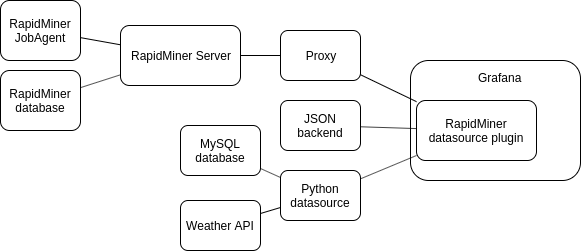
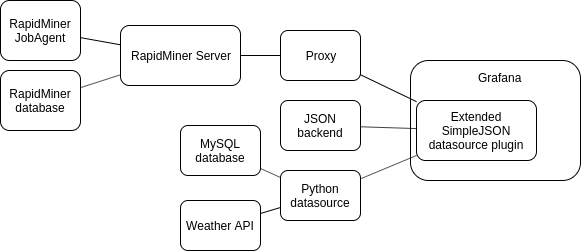
First version of design part, need further details

Changed region(s): [[0.7126, 0.4462, 0.8985, 0.6135]]

diff --git a/docs/thesis/content/design.tex b/docs/thesis/content/design.tex
@@ -1,27 +1,96 @@
 \chapter{Design}
 
+\begin{center}
+	--- TODO ---
+	\begin{itemize}
+		\item extended API for SimpleJSON datasource
+		\subitem querying available paramaters for a webservice
+	\end{itemize}
+\end{center}
+
 \section{Architecture}
 
-\includegraphics{figures/architecture.png}
+The designed architecture of the project can be observed in the figure \ref{fig:arch}. There are three data sources connected to Grafana through an extended version of the official SimpleJson data source plugin. Each data source access the data it provides in different ways; through an outside service, from a database or from memory.
 
-\begin{itemize}
-	\item why do we need a gateway
-	\item how can we access data from RapidMiner WebService
-	\item why is it good to have a python compoment between Grafana and MySQL
-	\begin{itemize}
-		\item we can customize it better, what we see from the database
-		\item can implement business logic, only see business-relevant projections, granularity of the data
-		\item can aggregate data from different backends
-		\item can aggregate data with outsider APIs (POC implementation for this use-case)
-	\end{itemize}
-\end{itemize}
+\begin{figure}[h]
+	\centering
+	\includegraphics[width=150mm, keepaspectratio]{figures/architecture.png}
+	\caption{Architecture diagram}
+	\label{fig:arch}
+\end{figure}
 
+%---
 \section{Components}
+%---
 
-\begin{itemize}
-	\item Responsibilities
-	\item Interfaces?
-\end{itemize}
+In this section, each component is presented, focusing on their responsibilities.
+
+%---
+\subsection{Extended SimpleJSON datasource plugin}
+%---
+
+Grafana uses data source plugins to connect to different data storage backends. Each data source plugin exposes a Grafana specific interface which allows Grafana to communicate with each data source plugin the same way.
+
+
+%---
+\subsection{Proxy}
+%---
+
+The main responsibility of this component is to translate between the RapidMiner Web service which the RapidMiner Server exposes and the SimpleJSON datasource plugin. The problem is that RapidMiner Server exposes its result in JSON, but is in another format that the SimpleJSON datasource plugin accepts.
+
+%---
+\subsection{RapidMiner components}
+%---
+% https://docs.rapidminer.com/latest/server/overview/scalable-architecture.html
+
+The RapidMiner Server acts as a data source for Grafana with the help of the proxy component. In addition to its numerous features, with RapidMiner Server we can store and expose data science processes, like model building, predictions, data ETL operations, etc. Long-running jobs are executed externally via Job Agents. The RapidMiner Server stores its data in an external database.
+The Server can expose certain processes that can be called via REST API requests. These are the so called Web services which we use to get the results of the RapidMiner processes and transfer them to Grafana.
+
+%---
+\subsection{JSON backend}
+%---
+% https://github.com/bergquist/fake-simple-json-datasource
+This component is a example backend implementation for the SimpleJSON data source plugin. It serves as a base for creating other backends for the data source plugin. It also further expresses the general usability of the SimpleJSON plugin.
+
+%---
+\subsection{Python data source}
+%---
+
+Although Grafana has a built-in plugin to communicate with a MySQL database, there exists some use-cases, when having a custom component between the data source and the visualization tool is feasible.
+
+With an extra component in the middle, we have extra control over the data which travels from the data storage backend (in our case, MySQL) to the visualization platform. This means that we do not have to rely solely on the capabilities of the database, which can lead to simpler queries, smaller communication overhead with the database.
+
+Having a custom middleware makes it possible to implement the business logic in a separate component and only display business-relevant information with the visualization tool.
+
+It also enables us to aggregate information from different backends and provide only one kind of interface towards visualization which can result in better maintainability.
+
+In this project I demonstrate a proof-of-concept use-case, when this extra components reads information from a database and also from an external API service. I believe, that this is a quite common problem, to have some data in one's storage, but for a better business competence, the usage of external services is also necessary.
+
+%---
+\subsection{Weather API}
+%---
+
+This component represents the previously mentioned external service. Its responsibility is to expose a service that can be utilized by other softwares in order to acquire additional business-relevant information.
+
+%---
+\subsection{MySQL database}
+%---
+
+The Python datasource uses this database component to read some sample data from it.
+
+
+%\begin{itemize}
+%	\item why do we need a gateway
+%	\item how can we access data from RapidMiner WebService
+%	\item why is it good to have a python compoment between Grafana and MySQL
+%	\begin{itemize}
+%		\item we can customize it better, what we see from the database
+%		\item can implement business logic, only see business-relevant projections, granularity of the data
+%		\item can aggregate data from different backends
+%		\item can aggregate data with outsider APIs (POC implementation for this use-case)
+%	\end{itemize}
+%\end{itemize}
+
 
 \begin{itemize}
 	\item Grafana
